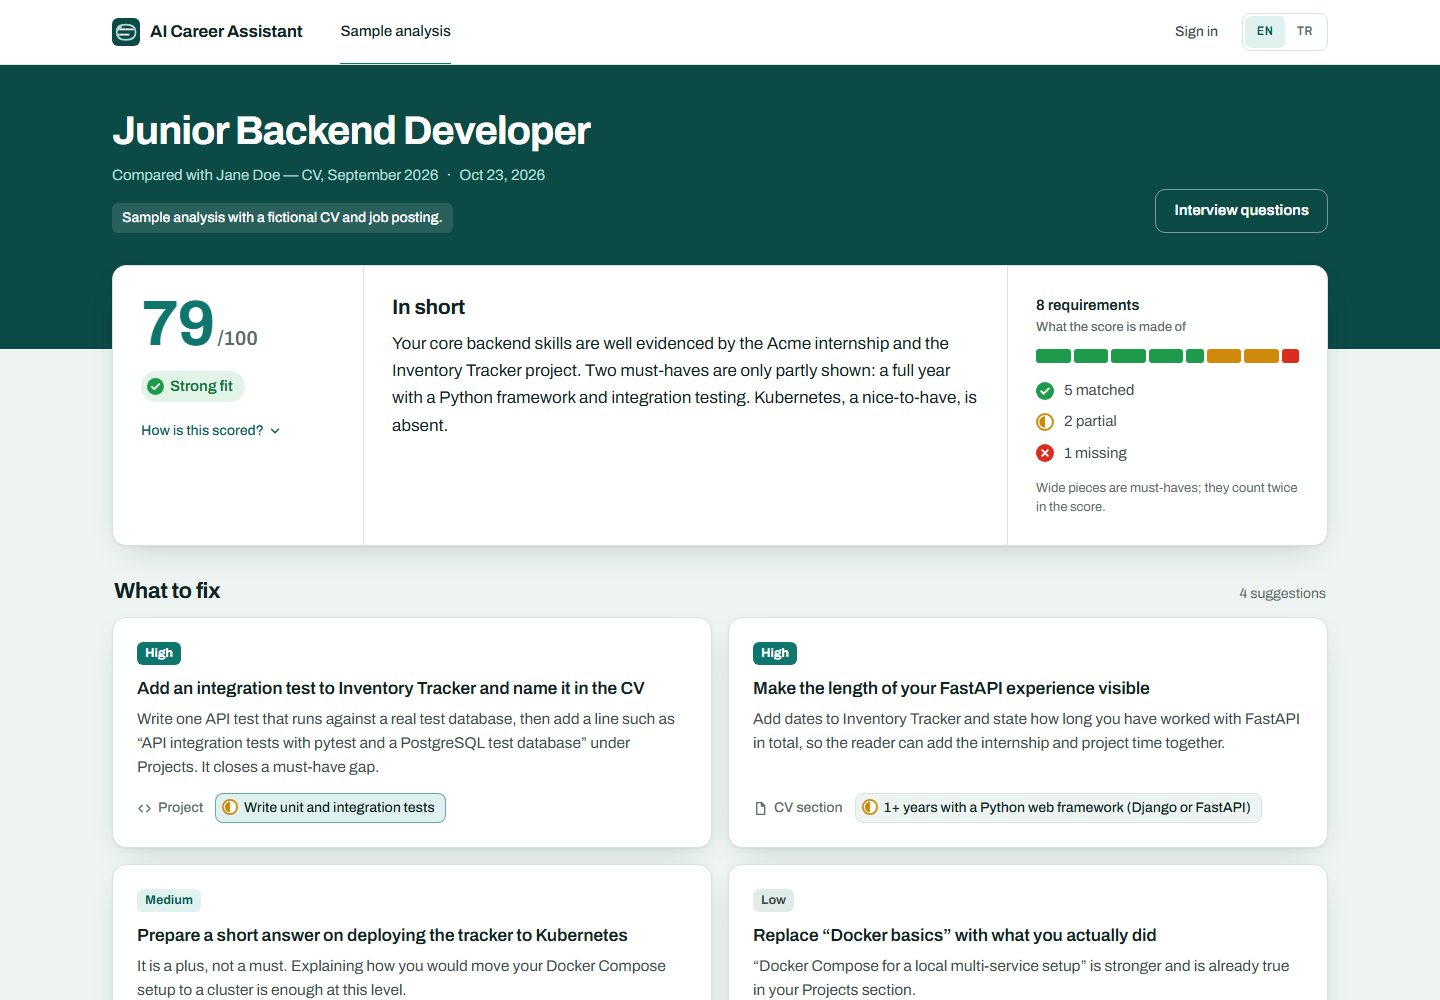
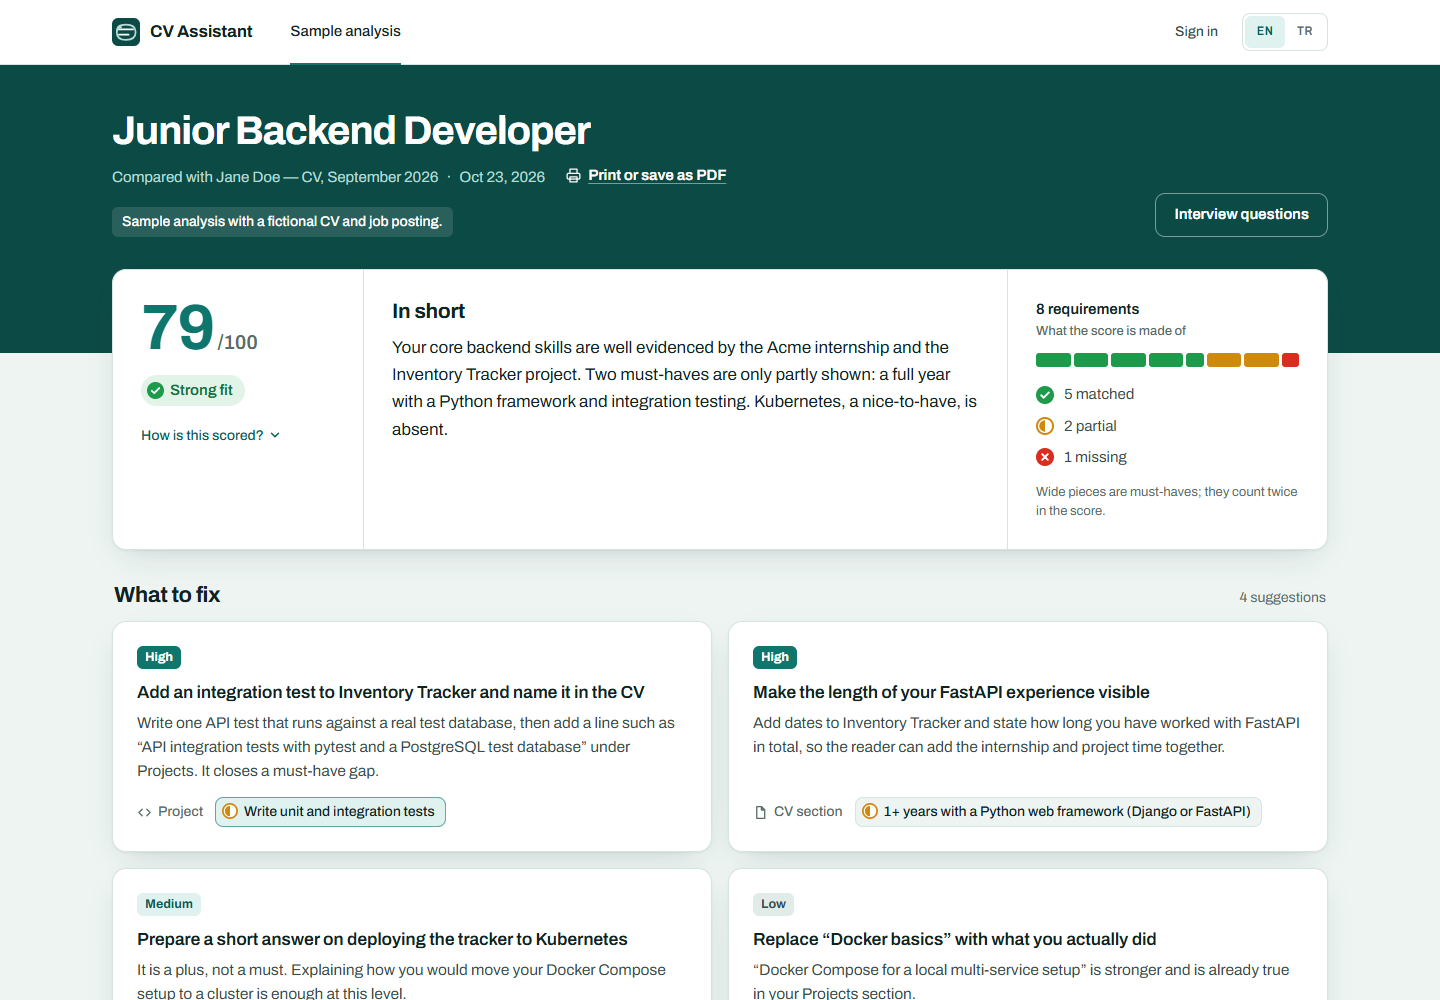
docs: retake the README screenshots with the new name
- the result, new analysis and CV editor captures show CV Assistant
- the live demo and local setup mention the emailed code

diff --git a/README.md b/README.md
@@ -4,7 +4,7 @@ A web and Android app that compares a CV with a job posting and shows, requireme
 
 Instead of an unexplained "87% fit", every judgement points at the CV lines it relied on, unsupported claims are marked missing instead of trusted, and the score comes from a stated formula computed by code, not by the model.
 
-**Live demo:** [cvassistant-app.vercel.app](https://cvassistant-app.vercel.app) opens the sample result without an account. Register to run the fictional sample CV and posting live. The API runs on a free tier that sleeps when idle, so the first request after a quiet spell can take about a minute, and an analysis can take a couple of minutes when the free AI models are busy.
+**Live demo:** [cvassistant-app.vercel.app](https://cvassistant-app.vercel.app) opens the sample result without an account. Register (a six-digit code sent by email confirms the address) to run the fictional sample CV and posting live. The API runs on a free tier that sleeps when idle, so the first request after a quiet spell can take about a minute, and an analysis can take a couple of minutes when the free AI models are busy.
 
 ![Web: the sample result. The score with its fit level and a bar of every requirement, a short summary, and what to fix first as priority cards.](docs/screenshots/web-result.png)
 
@@ -181,7 +181,7 @@ npm run dev            # http://localhost:3000 → redirects to /en or /tr
 
 The web client is a Next.js 16 app (App Router, TypeScript, Tailwind CSS 4). The interface is bilingual (English/Turkish): the language lives in the URL (`/en/...`, `/tr/...`) and the first visit picks it from the browser.
 
-- Register at `/en/register`, then start an analysis from **New analysis**. "Fill with the sample CV and posting" runs the fictional sample live.
+- Register at `/en/register`; with `EMAIL_PROVIDER=log` the verification code appears in the API's log. Then start an analysis from **New analysis**. "Fill with the sample CV and posting" runs the fictional sample live.
 - The session token lives in an httpOnly cookie and every API call is made by the Next.js server, so the browser never sees the token. Set `API_BASE_URL` in `apps/web/.env.local` if the API is not on `http://localhost:8000` (see `.env.example`).
 - The CV Maker is at `/en/cvs`. A completed analysis offers **Write a CV for this posting** in its header.
 - Without an account, the pre-computed sample result is at `/en/analyses/sample`. Add `?preview=running`, `failed`, `no-questions` or `questions-error` to see the other states.
